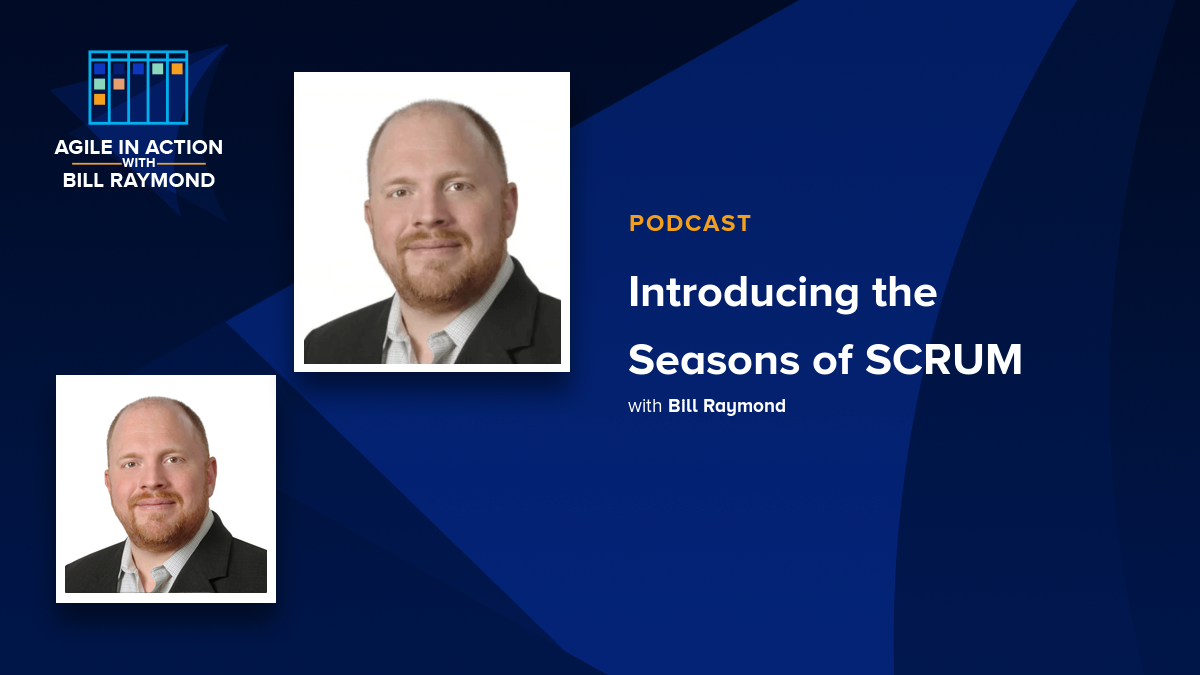
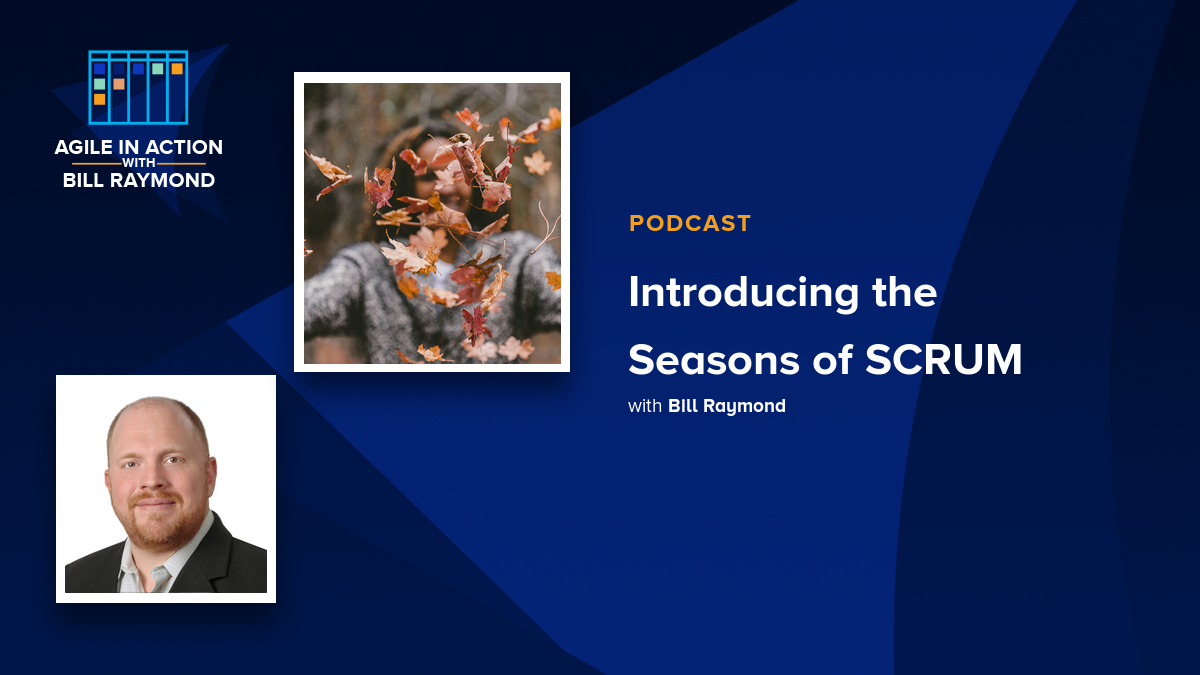
Jekyll build from Action

Changed region(s): [[0.2467, 0.1244, 0.4933, 0.56]]

diff --git a/agile-in-action-podcast/2022/10/11/introducing-the-seasons-of-scrum.html b/agile-in-action-podcast/2022/10/11/introducing-the-seasons-of-scrum.html
@@ -96,7 +96,6 @@
 <p><strong>Bill Raymond:</strong> If you are in a podcast app right now, I would really appreciate it if you Comment, Like, and Subscribe to the podcast. This way, you never miss any of the great content that’s coming your way.</p>
 
 <p><strong>Bill Raymond:</strong> So thank you once again, and we’ll see you next week!</p>
-
 <h2 id="about-the-agile-in-action-with-bill-raymond-podcast">About the Agile in Action with Bill Raymond podcast</h2>
 
 <p>This business-focused podcast focuses on an audience that is passionate about making positive change in their organizations. The podcast presents interviews with leaders and practitioners who work tirelessly to modernize how teams work.</p>

diff --git a/guestphotos.html b/guestphotos.html
@@ -24,7 +24,7 @@
       
       <h2>Title:Introducing the Seasons of SCRUM</h2># Guests:1<p>Guest:Bill Raymond</p>
         <p>Photo:</p>
-        <p><img src="/uploads/bill-raymond.png" alt=""> </p><h2>Title:Leading change with GRIT and communicating with integrity</h2># Guests:1<p>Guest:Laurie Sudbrink</p>
+        <p><img src="/uploads/seasons-of-scrum.png" alt=""> </p><h2>Title:Leading change with GRIT and communicating with integrity</h2># Guests:1<p>Guest:Laurie Sudbrink</p>
         <p>Photo:</p>
         <p><img src="/uploads/laurie-sudbrink.jpeg" alt=""> </p><h2>Title:Editor's Pick! Embracing a remote work culture</h2># Guests:1<p>Guest:Sarah Sewell</p>
         <p>Photo:</p>

diff --git a/admin.html b/admin.html
@@ -52,7 +52,7 @@
         
         <div class="gcp-cards-1">
             
-            <img src="/uploads/bill-raymond.png" alt="" class="gcp-card"></div>
+            <img src="/uploads/seasons-of-scrum.png" alt="" class="gcp-card"></div>
         <div class="gcp-play"><img src="/assets/guests-card/play-circle.png" alt="" class="gcp-play-image">
         </div>
     </div><div class="guests-card-title-container"><p class="gct-title"><span><a class="gct-title-href" href="/agile-in-action-podcast/2022/10/11/introducing-the-seasons-of-scrum.html">Introducing the Seasons of SCRUM</a></span></p>
